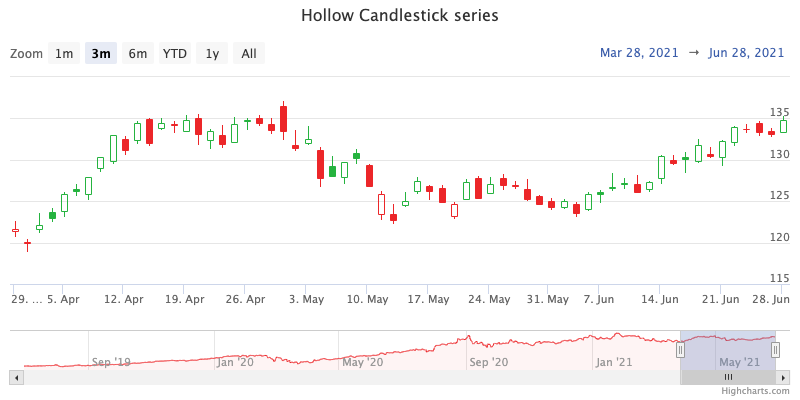
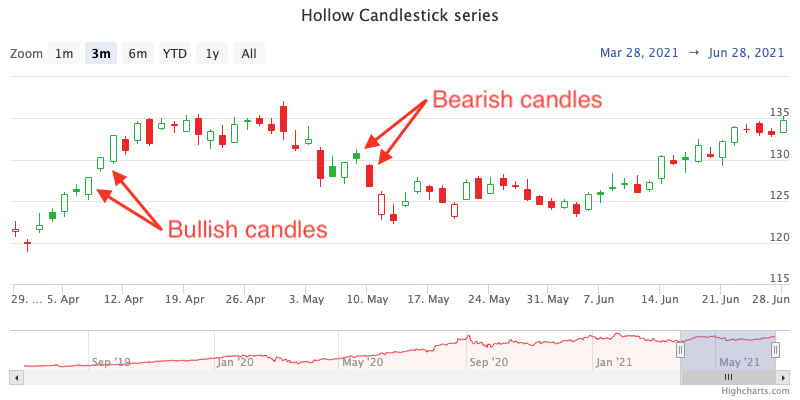
Improved documentation and coloring mechanism.

Changed region(s): [[0.4375, 0.21, 0.75, 0.42], [0.125, 0.42, 0.4062, 0.6]]

diff --git a/ts/Series/HollowCandlestick/HollowCandlestickPoint.ts b/ts/Series/HollowCandlestick/HollowCandlestickPoint.ts
@@ -53,8 +53,8 @@ class HollowCandlestickPoint extends CandlestickSeries.prototype.pointClass {
     /* eslint-disable valid-jsdoc */
 
     /**
-     * Based on the open and close values of the current and previous point,
-     * calculate what color the point line/border should have.
+     * Basing on the open and close values of the current and previous point,
+     * determine what color the point should have.
      * @private
      *
      * @function Highcharts.seriesTypes.hollowcandlestick#getPointFill
@@ -68,12 +68,9 @@ class HollowCandlestickPoint extends CandlestickSeries.prototype.pointClass {
     public getLineColor(previousPoint: HollowCandlestickPoint): ColorType {
         const point = this;
 
-        // Return line color only for bullish candles.
-        if (point.close < previousPoint.close) {
-            return point.series.options.lineColor || palette.negativeColor;
-        }
-
-        return point.series.options.upLineColor || palette.positiveColor;
+        return point.close < previousPoint.close ?
+            point.series.options.lineColor || palette.negativeColor :
+            point.series.options.upLineColor || palette.positiveColor;
     }
 
     /**
@@ -92,15 +89,13 @@ class HollowCandlestickPoint extends CandlestickSeries.prototype.pointClass {
     public getPointFill(previousPoint: HollowCandlestickPoint): ColorType {
         const point = this;
 
-        // Return fill color only for bullish candles.
-        if (point.open > point.close) {
-            if (point.close < previousPoint.close) {
-                return point.series.options.color || palette.negativeColor;
-            }
-
-            return point.series.options.upColor || palette.positiveColor;
+        // Return fill color only for bearish candles.
+        if (point.open < point.close) {
+            return 'transparent';
         }
-        return 'transparent';
+        return point.close < previousPoint.close ?
+            point.series.options.color || palette.negativeColor :
+            point.series.options.upColor || palette.positiveColor;
     }
     /* eslint-enable valid-jsdoc */
 }
@@ -111,9 +106,6 @@ class HollowCandlestickPoint extends CandlestickSeries.prototype.pointClass {
  *
  * */
 
-namespace HollowCandlestickPoint {
-    export type PointShortOptions = [number, number, number, number];
-}
 
 /* *
  *

diff --git a/ts/Series/HollowCandlestick/HollowCandlestickSeries.ts b/ts/Series/HollowCandlestick/HollowCandlestickSeries.ts
@@ -194,7 +194,7 @@ class HollowCandlestickSeries extends CandlestickSeries {
 
         if (points && points.length) {
             // The first point always without fill,
-            // because of lacking the previous point.
+            // because of the lack of the previous point.
             points[0].candleFill = 'transparent';
 
             for (let i = 1; i < points.length; i++) {

diff --git a/docs/stock/hollow-candlestick-chart.md b/docs/stock/hollow-candlestick-chart.md
@@ -1,13 +1,16 @@
-Candlestick chart
+Hollow Candlestick chart
 ================
 
-A hollow candlestick chart is a slightly modified version of the candlestick series. Similarly, the point is composed of a body and an upper and a lower wick. Also, the open, high, low and close price values are visible however the fill and line color for each candle is different. 
+A hollow candlestick series is similar to a candlestick series, with a few modifications. The hollow candlestick point is composed of a body and an upper and a lower wick, however, it uses color and fill attributes to show price behavior. 
 
 
-If the closing price is higher than the opening price (bullish) the body is transparent. <br>
-When the close is lower than the previous close, the line and filling for bearish candles has a reddish color.<br> 
+If the current closing price is higher than the opening price (bullish candle) the body is transparent. <br>
+When the current close is lower than the previous close, the line and filling for bearish candles has a reddish color.<br> 
 Else (the close is higher than the previous close), the greenish color is applied for the line and the fill of the bearish candle.
 
+Candles without the fill are called bullish candles and the ones with filling are bearish.
+
 ![hollow-candlestick.png](hollow-candlestick.png)
+
 
 For more information on the candlestick chart, see the [API reference](https://api.highcharts.com/highstock/plotOptions.hollowcandlestick).
